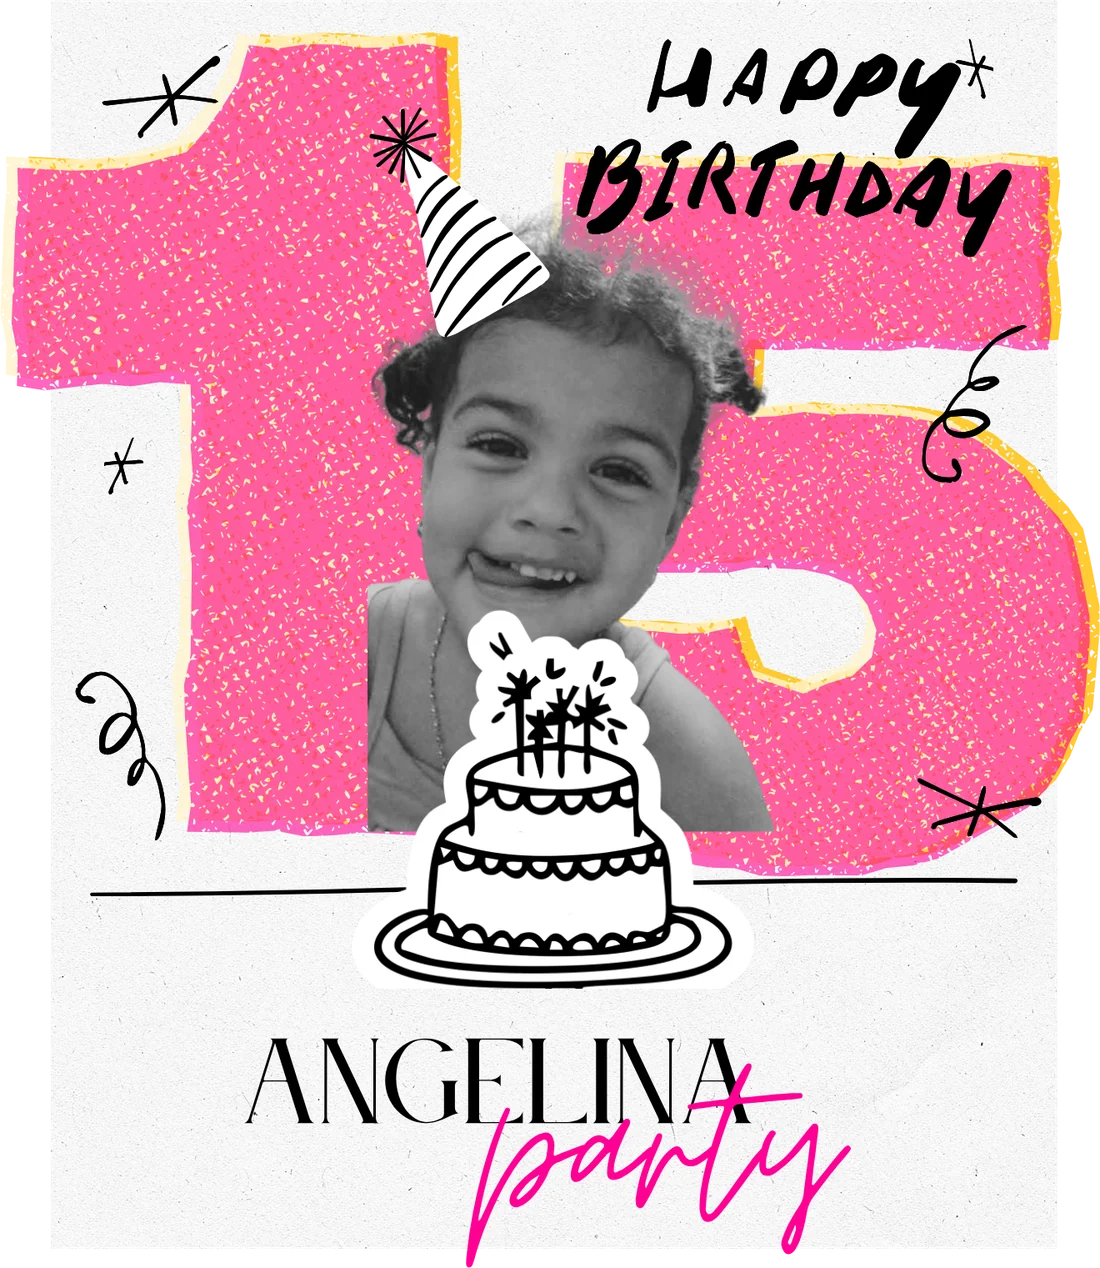
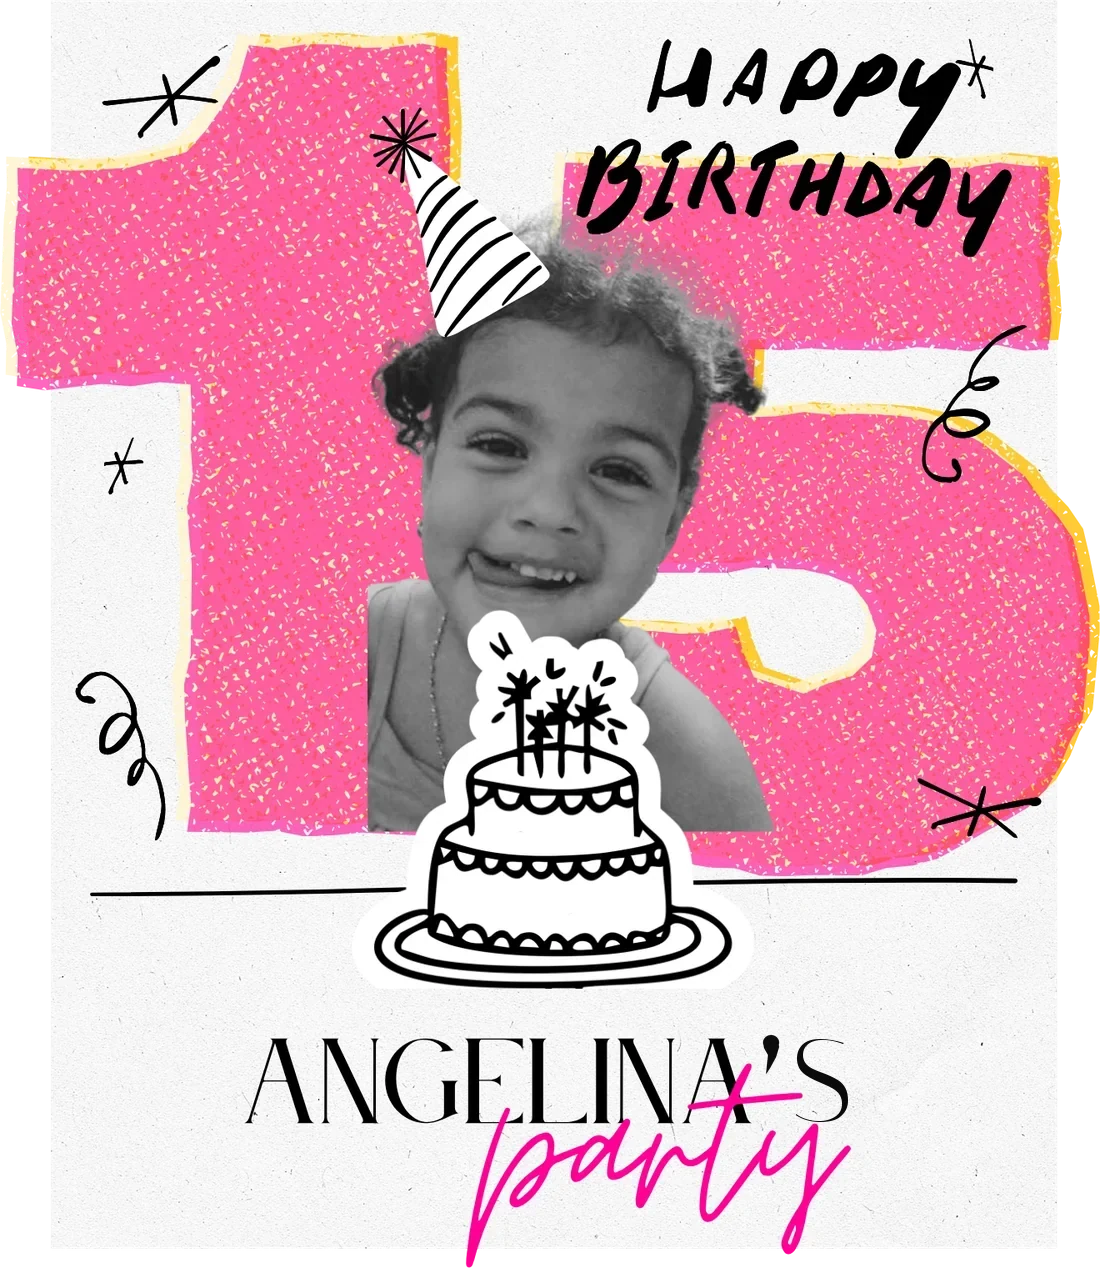
correcion 6

Changed region(s): [[0.68, 0.7997, 0.7727, 0.892]]

diff --git a/index.html b/index.html
@@ -832,5 +832,3 @@ img { display: block; max-width: 100%; height: auto; }
 </script>
 
 </body></html>
-
-<!-- A ver si ahora si-->
